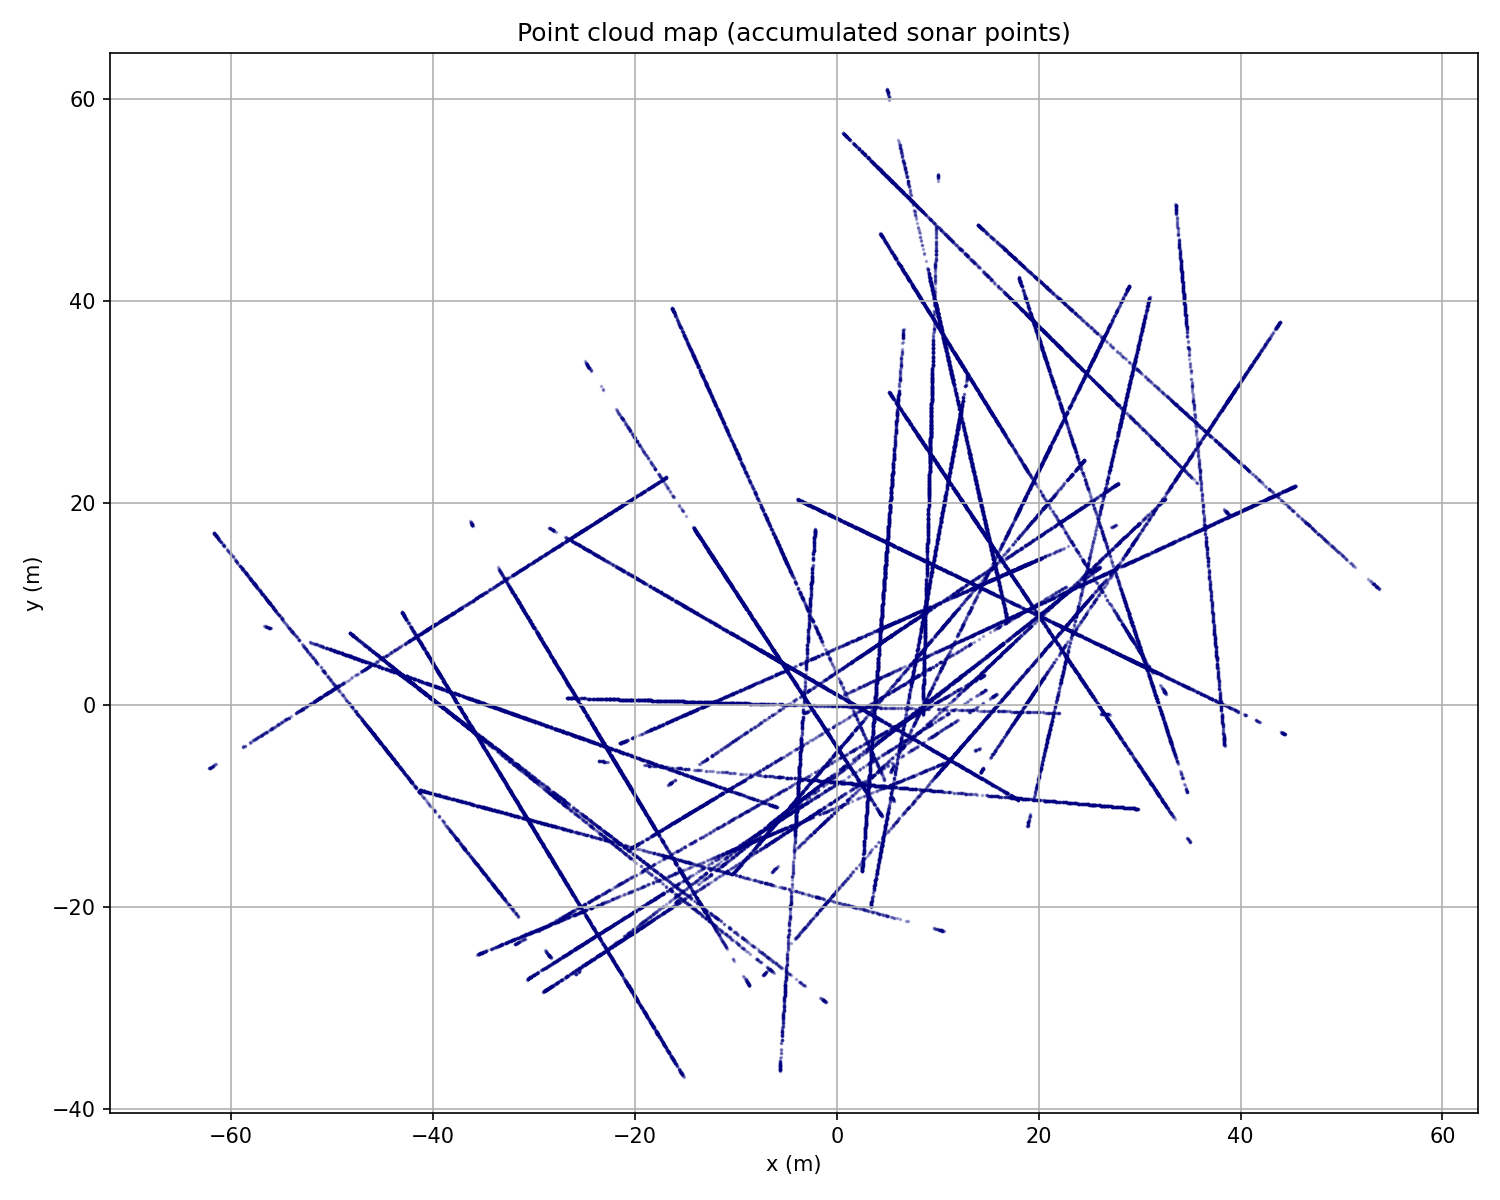
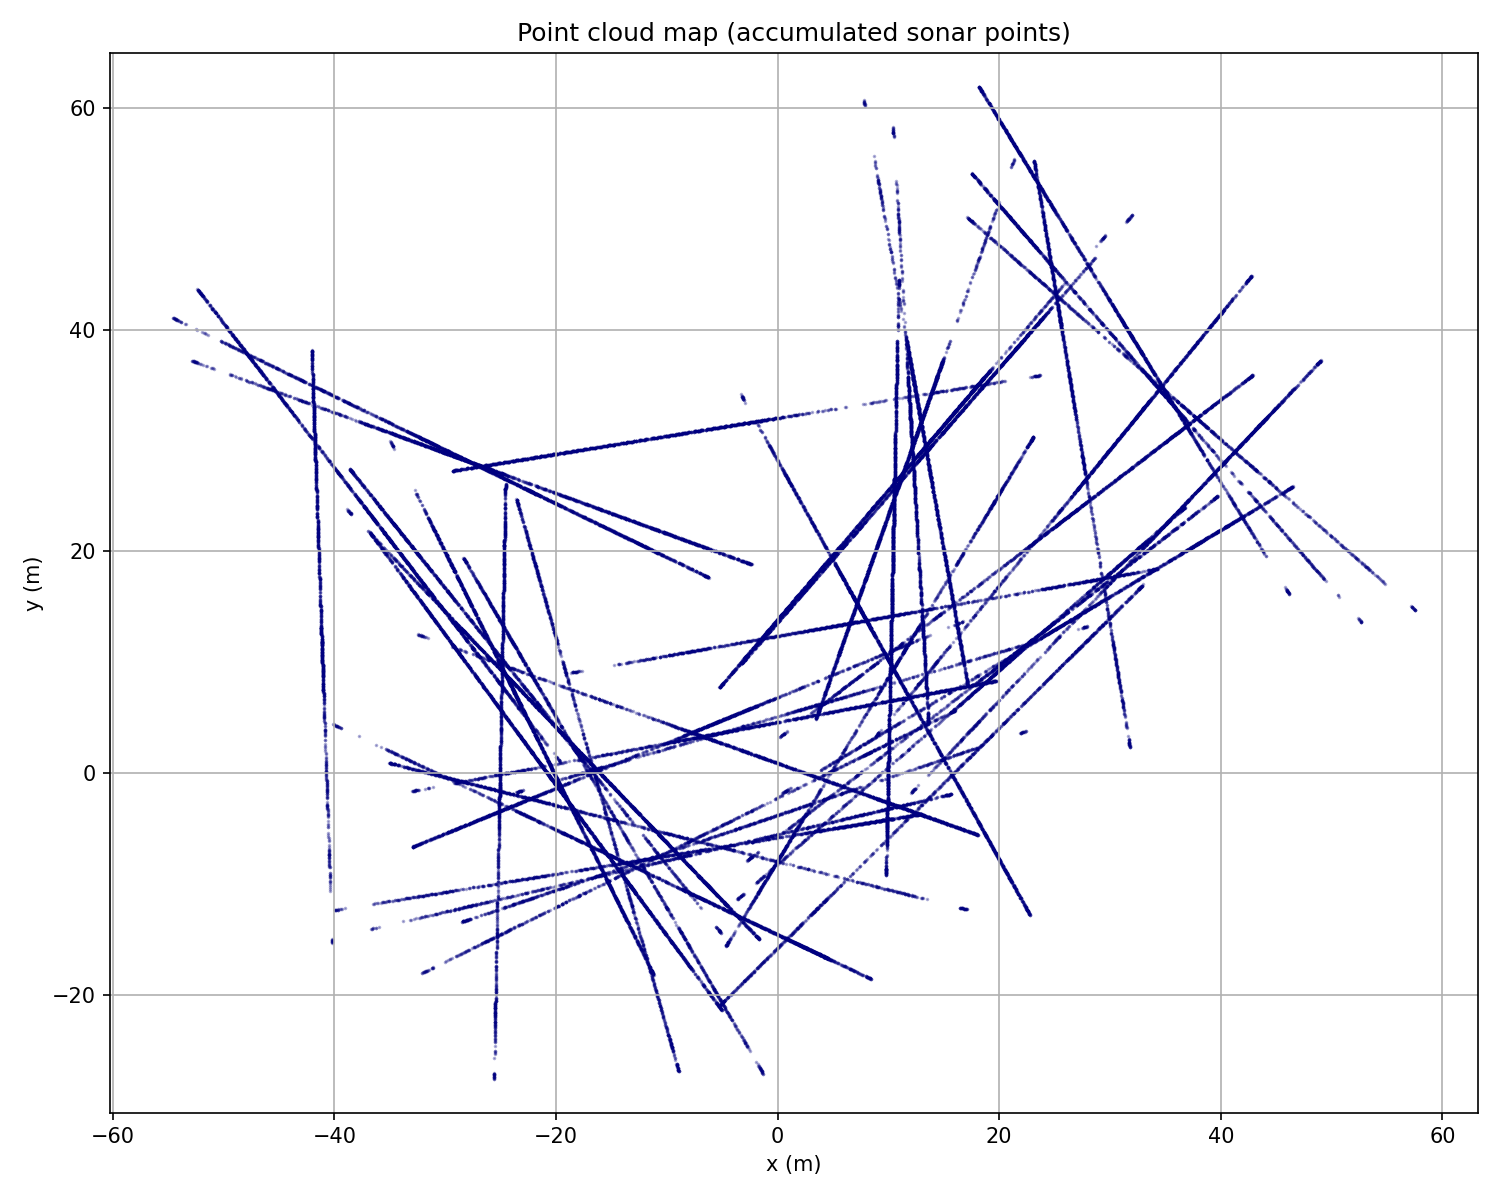
ATE metric pour comparer les courbes

diff --git a/analyze_drift.py b/analyze_drift.py
@@ -22,17 +22,22 @@ if os.path.exists(gt_path):
     offset_y = gy[0] - (-ty[0])
     tx, ty = tx + offset_x, -ty + offset_y
     dx, dy = dx + offset_x, -dy + offset_y
+    # ATE: interpolate GT to SLAM keyframe count
+    idx = np.round(np.linspace(0, len(gx)-1, len(tx))).astype(int)
+    ate = np.sqrt(np.mean((tx - gx[idx])**2 + (ty - gy[idx])**2))
     ax.plot(gx, gy, label="Ground truth (GPS)", color="red", linestyle="--")
     ax.plot(gx[0], gy[0], marker="*", color="red", markersize=14)
     ax.plot(gx[-1], gy[-1], marker="X", color="red", markersize=12)
 else:
     print("groundtruth.csv not found — run simulation with /pose_gt topic active")
+    ate = None
 
 ax.plot(dx, dy, label="Odometry (dead reckoning)", color="steelblue", linestyle=":")
 ax.plot(dx[0], dy[0], marker="*", color="steelblue", markersize=14)
 ax.plot(dx[-1], dy[-1], marker="X", color="steelblue", markersize=12)
 
-ax.plot(tx, ty, label="Bruce-SLAM (DISO odom, iSAM2)", color="black")
+slam_label = f"Bruce-SLAM (DISO odom, iSAM2, ATE={ate:.1f} m)" if ate is not None else "Bruce-SLAM (DISO odom, iSAM2)"
+ax.plot(tx, ty, label=slam_label, color="black")
 ax.plot(tx[0], ty[0], marker="*", color="black", markersize=14, label="Start")
 ax.plot(tx[-1], ty[-1], marker="X", color="black", markersize=12, label="End")
 

diff --git a/Paper/Sonar/SonarContext.md b/Paper/Sonar/SonarContext.md
@@ -1,0 +1,194 @@
+# Résumé complet — Robust Imaging Sonar-based Place Recognition and Localization
+
+**Titre :** *Robust Imaging Sonar-based Place Recognition and Localization in Underwater Environments*
+**Auteurs :** Hogyun Kim, Gilhwan Kang, Seokhwan Jeong, Seungjun Ma, Younggun Cho
+**Institution :** Inha University, Incheon, Corée du Sud (SPARO Lab)
+**Publié :** IEEE ICRA 2023, Londres, UK
+**Code source :** https://github.com/sparolab/sonar_context.git
+
+---
+
+## Abstract
+
+Méthode de **place recognition** (reconnaissance de lieux déjà visités) pour le SLAM sonar sous-marin. Elle encode l'information géométrique directement à partir des caractéristiques des images sonar brutes, **sans connaissance préalable ni entraînement** (pas de deep learning).
+
+Trois contributions :
+1. **SONAR Context** — descripteur global (coarse = *polar key*, fine = *SONAR context*)
+2. **Adaptive shifting** — robustesse aux changements de rotation et translation
+3. Estimation de la **pose initiale pour l'ICP** → meilleure fermeture de boucle
+
+Testé en simulation (HOLOOCEAN), bassin réel (KRISO) et environnement réel (**Aracati2017**).
+
+---
+
+## I. Introduction
+
+### Problème
+
+La place recognition est essentielle pour le loop closure, qui corrige la dérive accumulée du SLAM. Sous l'eau :
+- Pas de GPS fiable (atténuation électromagnétique)
+- Vision optique limitée (turbidité de l'eau)
+- → le **sonar imageur** est le capteur privilégié
+
+### Limites des approches existantes
+
+**Feature-based (ORB, SIFT, AKAZE) :**
+- Cherchent des correspondances locales entre images sonar
+- Problème : faible précision du loop detection à cause du manque d'information géométrique/structurelle sous l'eau
+
+**Learning-based (CNN, Triplet networks) :**
+- Bonnes performances mais **problèmes de mémoire** et **temps de calcul** → pas temps-réel
+- Nécessitent un entraînement
+
+**Opti-acoustique (sonar + caméra) :**
+- Nécessite une caméra optique en plus → matching difficile (disparité d'échelle énorme entre sonar et caméra)
+
+### Idée centrale
+
+Inspiré de **Scan Context** (méthode LiDAR connue) mais adapté au sonar. Encode l'image sonar telle quelle (range + azimuth + intensité) en un descripteur global compact, sans features ni apprentissage → **rapide et temps-réel**.
+
+---
+
+## II. Background — Représentation SONAR
+
+Une mesure sonar $p_s$ en coordonnées sphériques (range $r$, azimuth $\theta$, élévation $\phi$) :
+
+$$p_s = \begin{bmatrix} x_s \\ y_s \\ z_s \end{bmatrix} = \begin{bmatrix} r\cos\theta\cos\phi \\ r\sin\theta\cos\phi \\ r\sin\phi \end{bmatrix}$$
+
+> Comme DISO : l'**élévation $\phi$ est perdue** dans l'image sonar 2D → on travaille en range/azimuth uniquement.
+
+L'image polaire encodée occupe $\mathcal{W} \times \mathcal{H}$ (largeur = azimuth, hauteur = range).
+
+---
+
+## III. Méthode proposée
+
+Pipeline (Fig. 3) : **Place Description** + **Point Processing** en parallèle, puis **Place Recognition**, puis **Pose-Graph SLAM**.
+
+### A. Place Description : SONAR Context + Polar Key
+
+**SONAR Context (descripteur fin) :**
+- Divise l'image en patches $\mathcal{P}_{ij}$ de taille $p_w \times p_h$ (ici 4×4)
+- Pour chaque patch, garde l'**intensité maximale** comme représentant :
+
+$$\mathcal{M}(\mathcal{P}_{ij}) = \max_{p \in \mathcal{P}_{ij}} i(p)$$
+
+- Le contexte $\mathcal{I} \in \mathbb{R}^{A \times R}$ occupe l'espace azimuth × range
+- Logique : forte intensité = structure (objet réfléchissant) → encode la géométrie de l'environnement
+
+**Polar Key (descripteur grossier) :**
+- Vecteur 1D résumant chaque contexte : moyenne d'intensité de chaque ligne (range)
+
+$$\mathfrak{P}_j = \mathcal{F}(\mathbf{p}_{1j}, ..., \mathbf{p}_{Aj}), \quad j = 1, ..., R$$
+
+- → vecteur de dimension $R$, sert à la recherche rapide
+
+### B. Place Recognition (détection de candidats loop closure)
+
+1. **Recherche rapide via Polar Key + KD-tree** : on compare le polar key de la frame courante à ceux des frames passées (distance euclidienne) → 1er voisin = candidat loop closure
+2. **Vérification fine via SONAR Context** : distance cosinus colonne par colonne entre query et candidat
+
+$$\mathcal{D}_a(\mathcal{I}^q, \mathcal{I}^c) = \frac{1}{A}\sum_{j=1}^{R}\left(1 - \frac{c_j^q \cdot c_j^c}{\|c_j^q\|\|c_j^c\|}\right)$$
+
+### C. Adaptive Shifting (le cœur de la robustesse)
+
+Sous l'eau, l'AUV peut revoir un lieu **sous un angle différent** → l'image est décalée → matching raté. Solution : shifter le contexte.
+
+**Bounded-column shifting** (robustesse rotation) :
+$$\mathcal{S}_a(\mathcal{I}^q, \mathcal{I}^c) = \min_{n \in [-\frac{A}{2}, \frac{A}{2}]} \mathcal{D}_a(\mathcal{I}^q, \mathcal{I}^c_{n \times \mu})$$
+
+**Bounded-row shifting** (robustesse translation) : shift des lignes (range).
+
+**Zero padding** : tient compte du FOV limité du sonar → on met à zéro les colonnes/lignes qui sortent du champ au lieu de faire un shift circulaire.
+
+Le décalage optimal trouvé donne aussi la **pose relative initiale** pour l'ICP.
+
+### C bis. Point Processing (en parallèle)
+
+Pour le nuage de points utilisé par l'ICP :
+- **Median filter** → réduit le bruit speckle
+- **Otsu binarization** → extrait les points fiables
+- → SONAR frame $S = (\mathfrak{P}, \mathcal{I}, \mathcal{C})$
+
+### D. Loop factors pour Pose-Graph SLAM
+
+Pose graph minimisant la dérive :
+
+$$X^* = \arg\min_X \sum_t \|f(x_t, x_{t+1}) - z_{t,t+1}\|^2_{\Sigma_t} + \sum_{i,j \in LC}\|f(x_i, x_j) - z_{i,j}\|^2_{\Sigma_{i,j}}$$
+
+- 1er terme : contraintes d'odométrie (6-DOF relatif)
+- 2e terme : contraintes de loop closure $z_{i,j}$ (3-DOF XYH via ICP 2D)
+- La pose initiale issue de l'adaptive shifting améliore la convergence de l'ICP
+
+---
+
+## IV. Résultats expérimentaux
+
+### Datasets
+
+| Dataset | Type | Capteur |
+|---------|------|---------|
+| HOLOOCEAN | Simulation (OpenWater, 2km) | sonar simulé |
+| KRISO | Bassin réel 7×7m | DIDSON |
+| **Aracati2017** | Marina réelle (Brésil) | BlueView P900-130 |
+
+Comparé à : **Scan Context** (LiDAR original), **AKAZE** (features), **AKAZE+polar key**.
+
+### Précision-Recall (Fig. 4)
+
+- AKAZE (feature-based) → mauvaises performances partout (matching instable sous l'eau)
+- Le polar key améliore déjà AKAZE → preuve de son utilité
+- **Méthode proposée surpasse tous les autres**, surtout sur Aracati pour la robustesse rotation/translation
+
+### Robustesse partielle (Fig. 5)
+
+- Capte jusqu'à **~40° de rotation** et **5m de translation** avec **80% de précision**
+- Bien meilleur que Scan Context (13.3%), AKAZE (10.2%), AKAZE+p (35.8%) → **82.1%**
+
+### Localisation globale avec loop closure (Fig. 8)
+
+- Sur Aracati : la trajectoire corrigée par loop closure suit bien la référence
+- L'erreur de localisation **chute nettement** par rapport à l'odométrie seule
+- L'estimation de pose initiale (Fig. 7) améliore l'alignement ICP avant registration
+
+---
+
+## V. Conclusion
+
+Descripteur global **SONAR Context** pour place recognition robuste :
+- Encode géométrie + intensité de l'image sonar brute, **sans apprentissage**
+- **Adaptive shifting** → robuste aux rotations/translations
+- Estime la pose initiale pour l'ICP → meilleur loop closure
+- Surpasse Scan Context, AKAZE et AKAZE+p sur 3 environnements
+
+**Perspectives :** extension à d'autres sonars (side-scan, profiling), SLAM multi-session, gestion de cartes.
+
+---
+
+## Lien avec mon projet (Bruce_SLAM + DISO)
+
+| Module Bruce_SLAM | Actuellement | Apport de ce papier |
+|-------------------|--------------|---------------------|
+| Front-end odométrie | DISO (remplace SSM/ICP) | — |
+| **Place recognition / loop closure (NSSM)** | **désactivé** (faux loop closures, divergence) | **SONAR Context** = détection de boucles robuste |
+| Back-end | iSAM2 | — |
+
+**Pertinence directe :** mon NSSM (loop closure) est désactivé car il génère de fausses boucles sur Aracati. Ce papier propose exactement une **meilleure détection de loop closure** (SONAR Context + adaptive shifting), testée sur Aracati2017. C'est une **amélioration d'un module existant** de Bruce_SLAM, pas un remplacement complet → conforme à mon objectif.
+
+**Prochaine étape possible :** remplacer la détection de boucles features+ICP du NSSM par SONAR Context, puis réactiver le NSSM.
+
+---
+
+## Glossaire
+
+| Terme | Définition |
+|-------|-----------|
+| **Place recognition** | Reconnaître un lieu déjà visité (≠ matching frame-à-frame) → déclenche le loop closure |
+| **Loop closure** | Contrainte ajoutée au graphe quand le robot revient sur ses pas → corrige la dérive |
+| **SONAR Context** | Descripteur global 2D (azimuth × range) encodant l'intensité max par patch |
+| **Polar Key** | Vecteur 1D résumant le SONAR Context → recherche rapide par KD-tree |
+| **Adaptive shifting** | Décalage du contexte pour matcher malgré rotation/translation du robot |
+| **Scan Context** | Descripteur global LiDAR (méthode source d'inspiration) |
+| **AKAZE** | Détecteur de features classique utilisé comme baseline comparative |
+| **Zero padding** | Remplissage par zéros pour gérer le FOV limité du sonar (≠ shift circulaire) |
+| **Blind Traversal** | Distance parcourue sans loop closure (plus court = meilleur) |

diff --git a/TESTS.md b/TESTS.md
@@ -332,3 +332,66 @@ Différence principale vs sample_data : odométrie par intégration de `/cmd_vel
 ### Conclusion générale
 
 Bruce-SLAM intégré avec Aracati2017 fonctionne en mode odométrie pure. SSM et NSSM nécessitent un recalibrage des paramètres ICP spécifique au sonar BlueView P900-130 pour fonctionner correctement sur ce dataset.
+
+---
+
+## Dataset Aracati2017 — DISO Standalone (2026-06-03)
+
+Front-end DISO uniquement (pas de back-end iSAM2). Odométrie directe par intensité sonar (pas ICP).
+
+### Configuration
+
+| Composant | Valeur |
+|-----------|--------|
+| Nœud | `direct_sonar_odometry/aracati2017_node` |
+| Config | `config/config_aracati2017.yaml` |
+| Back-end | aucun (pas de loop closure, pas de iSAM2) |
+| Topic pose | `/direct_sonar/pose` |
+
+### Résultats
+
+**Trajectoire DISO vs GT :**
+![DISO Trajectoires](TESTS_image/diso_trajectories.png)
+
+**Carte point cloud DISO :**
+![DISO Point cloud](TESTS_image/diso_pointcloud.png)
+
+### Observations
+
+- Trajectoire DISO suit la forme générale du GT (GPS)
+- Dérive progressive visible (pas de loop closure pour corriger)
+- Point cloud cohérent — les structures du port sont reconnaissables
+
+### ATE
+
+Calculé par `analyze_diso.py` (voir `plot1_trajectories.png` pour la valeur exacte).
+
+---
+
+## Dataset Aracati2017 — DISO + Bruce_SLAM (iSAM2, SSM=off, NSSM=off) (2026-06-03)
+
+DISO comme source d'odométrie sonar, back-end iSAM2 de Bruce_SLAM. SSM (ICP) désactivé car DISO le remplace. NSSM désactivé (faux loop closures).
+
+### Configuration
+
+| Composant | Valeur |
+|-----------|--------|
+| Front-end odométrie | DISO (`/direct_sonar/pose` → `odom_bridge` → `/bruce/slam/localization/odom`) |
+| SSM | **False** (DISO remplace ICP) |
+| NSSM | **False** (faux loop closures sur Aracati) |
+| Back-end | iSAM2 |
+| Covariance odom_bridge | 0.1 (position), 0.05 (rotation) |
+
+### Résultats
+
+![DISO + Bruce_SLAM trajectoire](TESTS_image/diso_bruce_slam_trajectory.png)
+
+### Observations
+
+- Sans loop closure, iSAM2 propage les poses DISO sans correction globale
+- Résultat légèrement moins bon que DISO standalone (latence bridge + overhead iSAM2 sans boucle)
+- Le gain réel de Bruce_SLAM viendra quand NSSM sera réactivé avec Sonar Context
+
+### Conclusion
+
+**Sans NSSM, DISO+Bruce_SLAM ≈ DISO standalone** avec overhead. La prochaine étape est d'intégrer Sonar Context (ICRA 2023) dans le NSSM pour activer le loop closure sur Aracati2017.